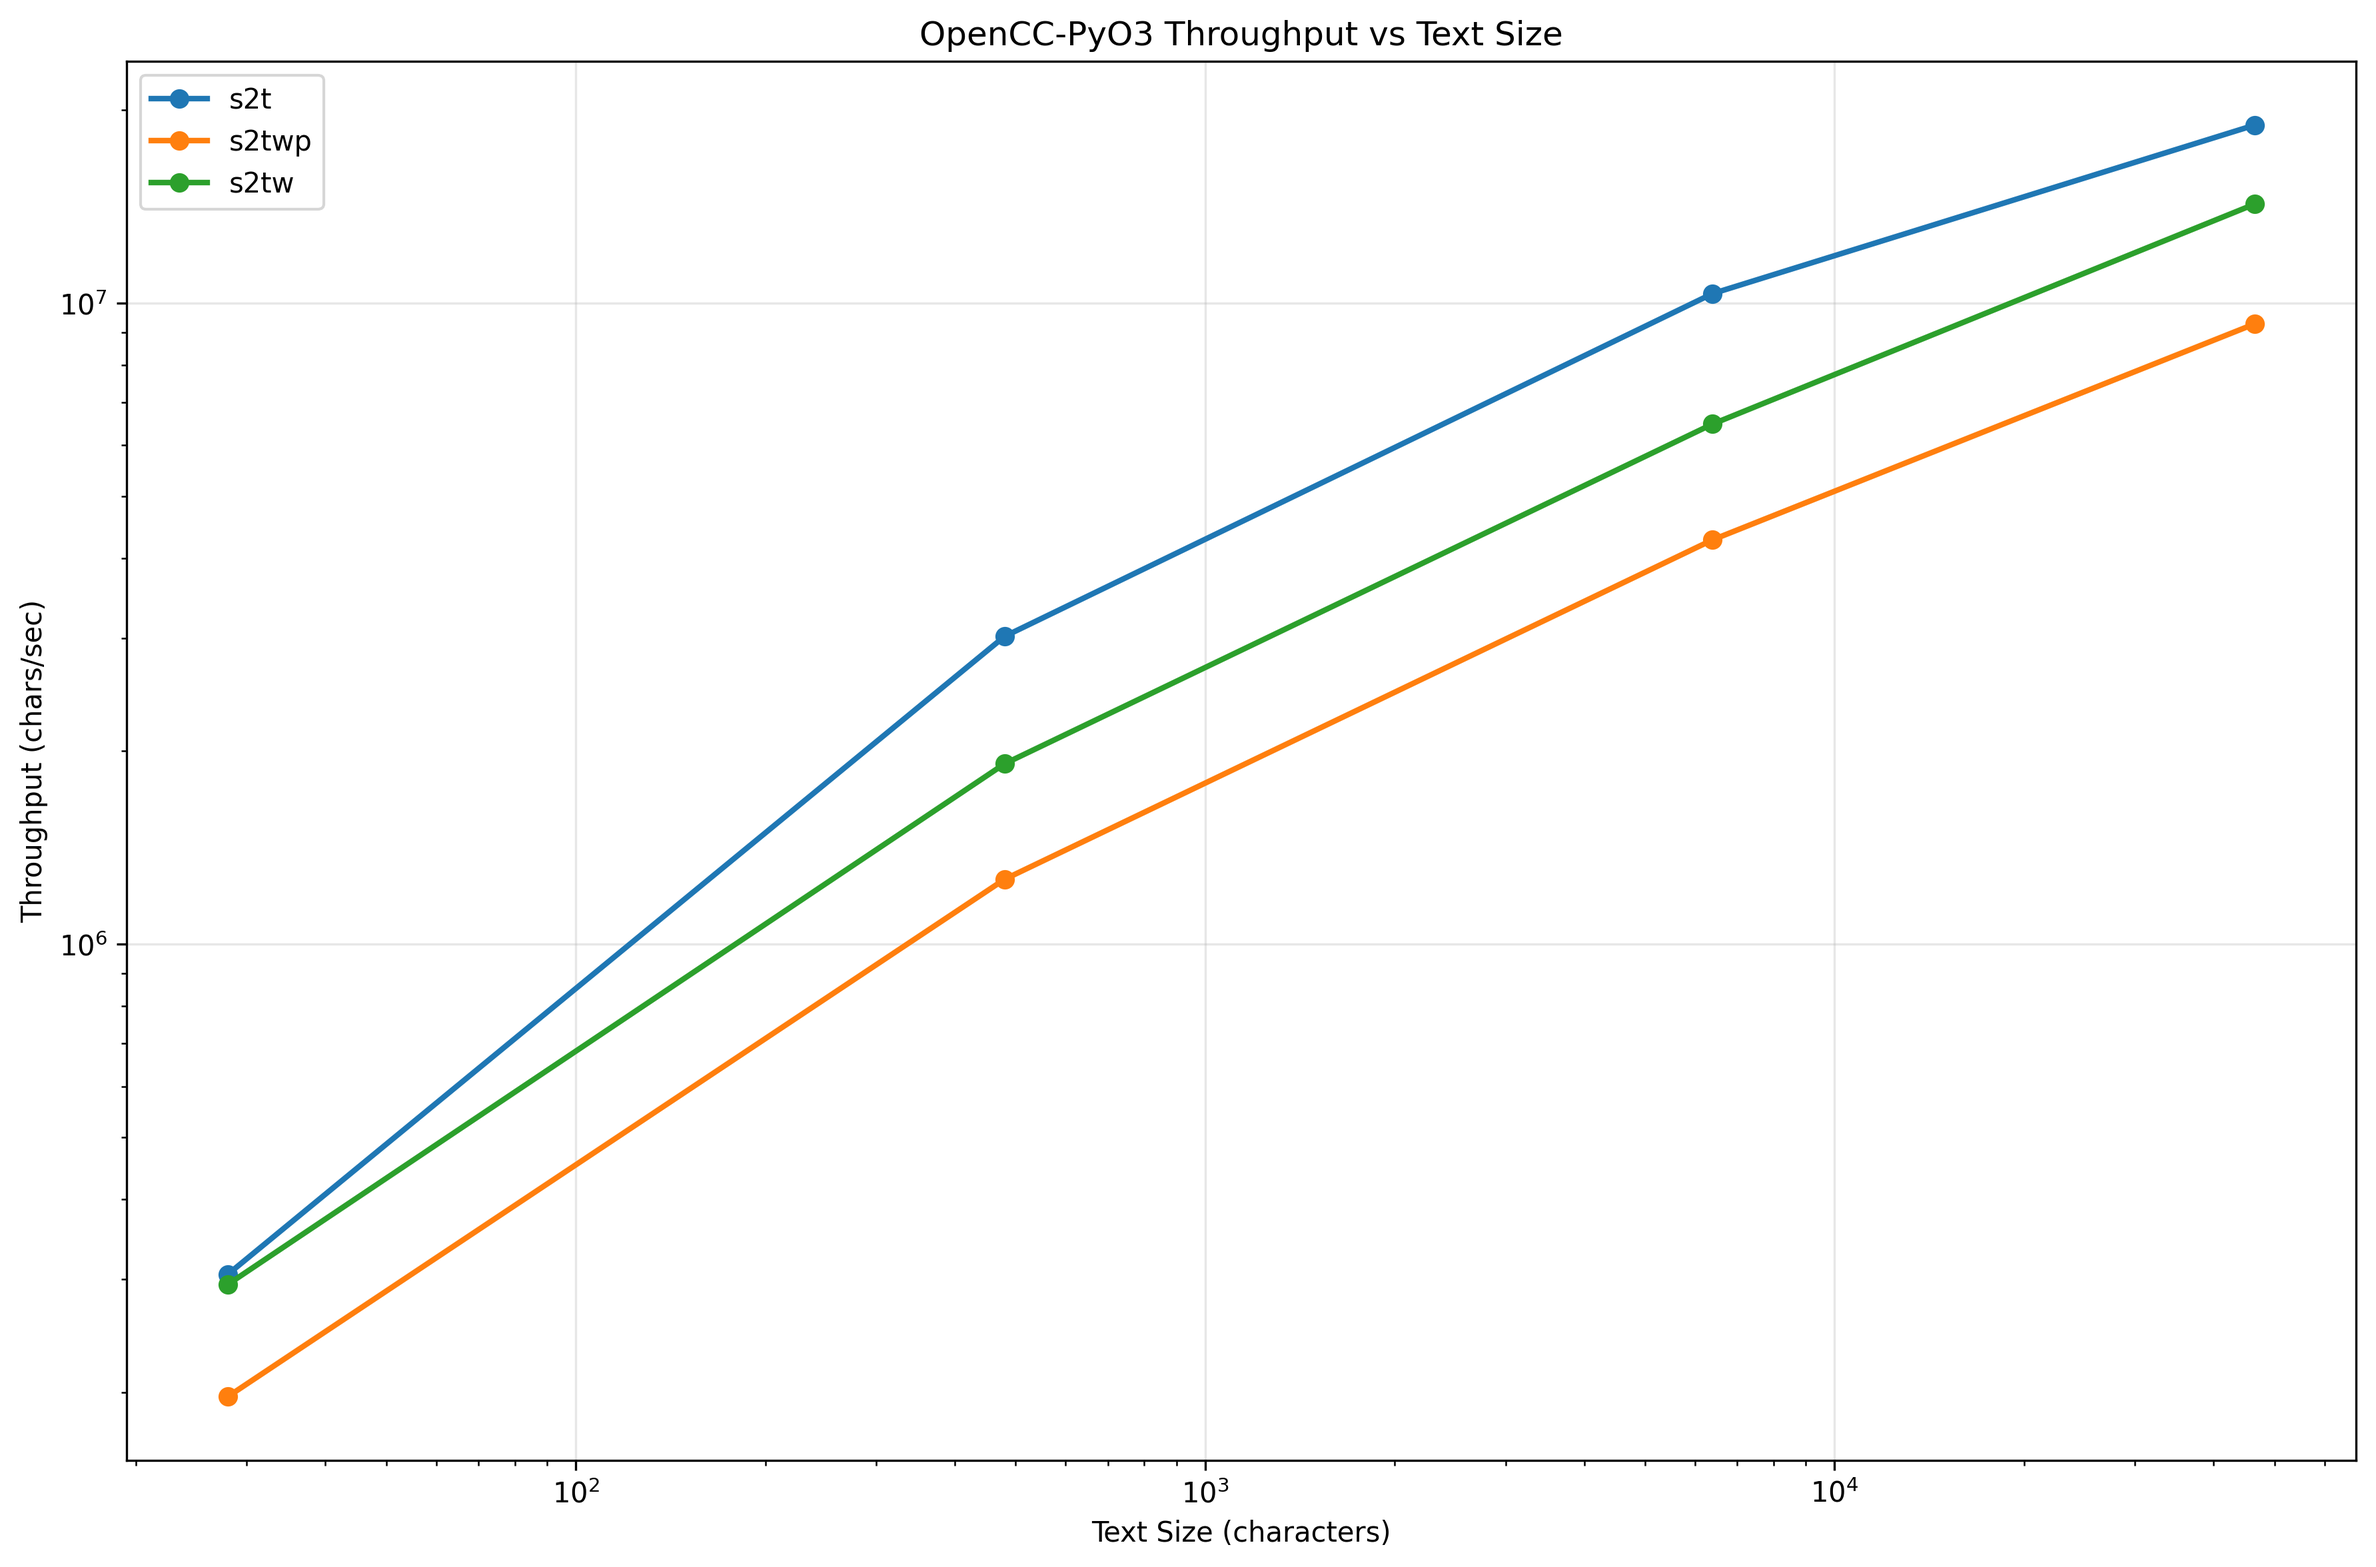
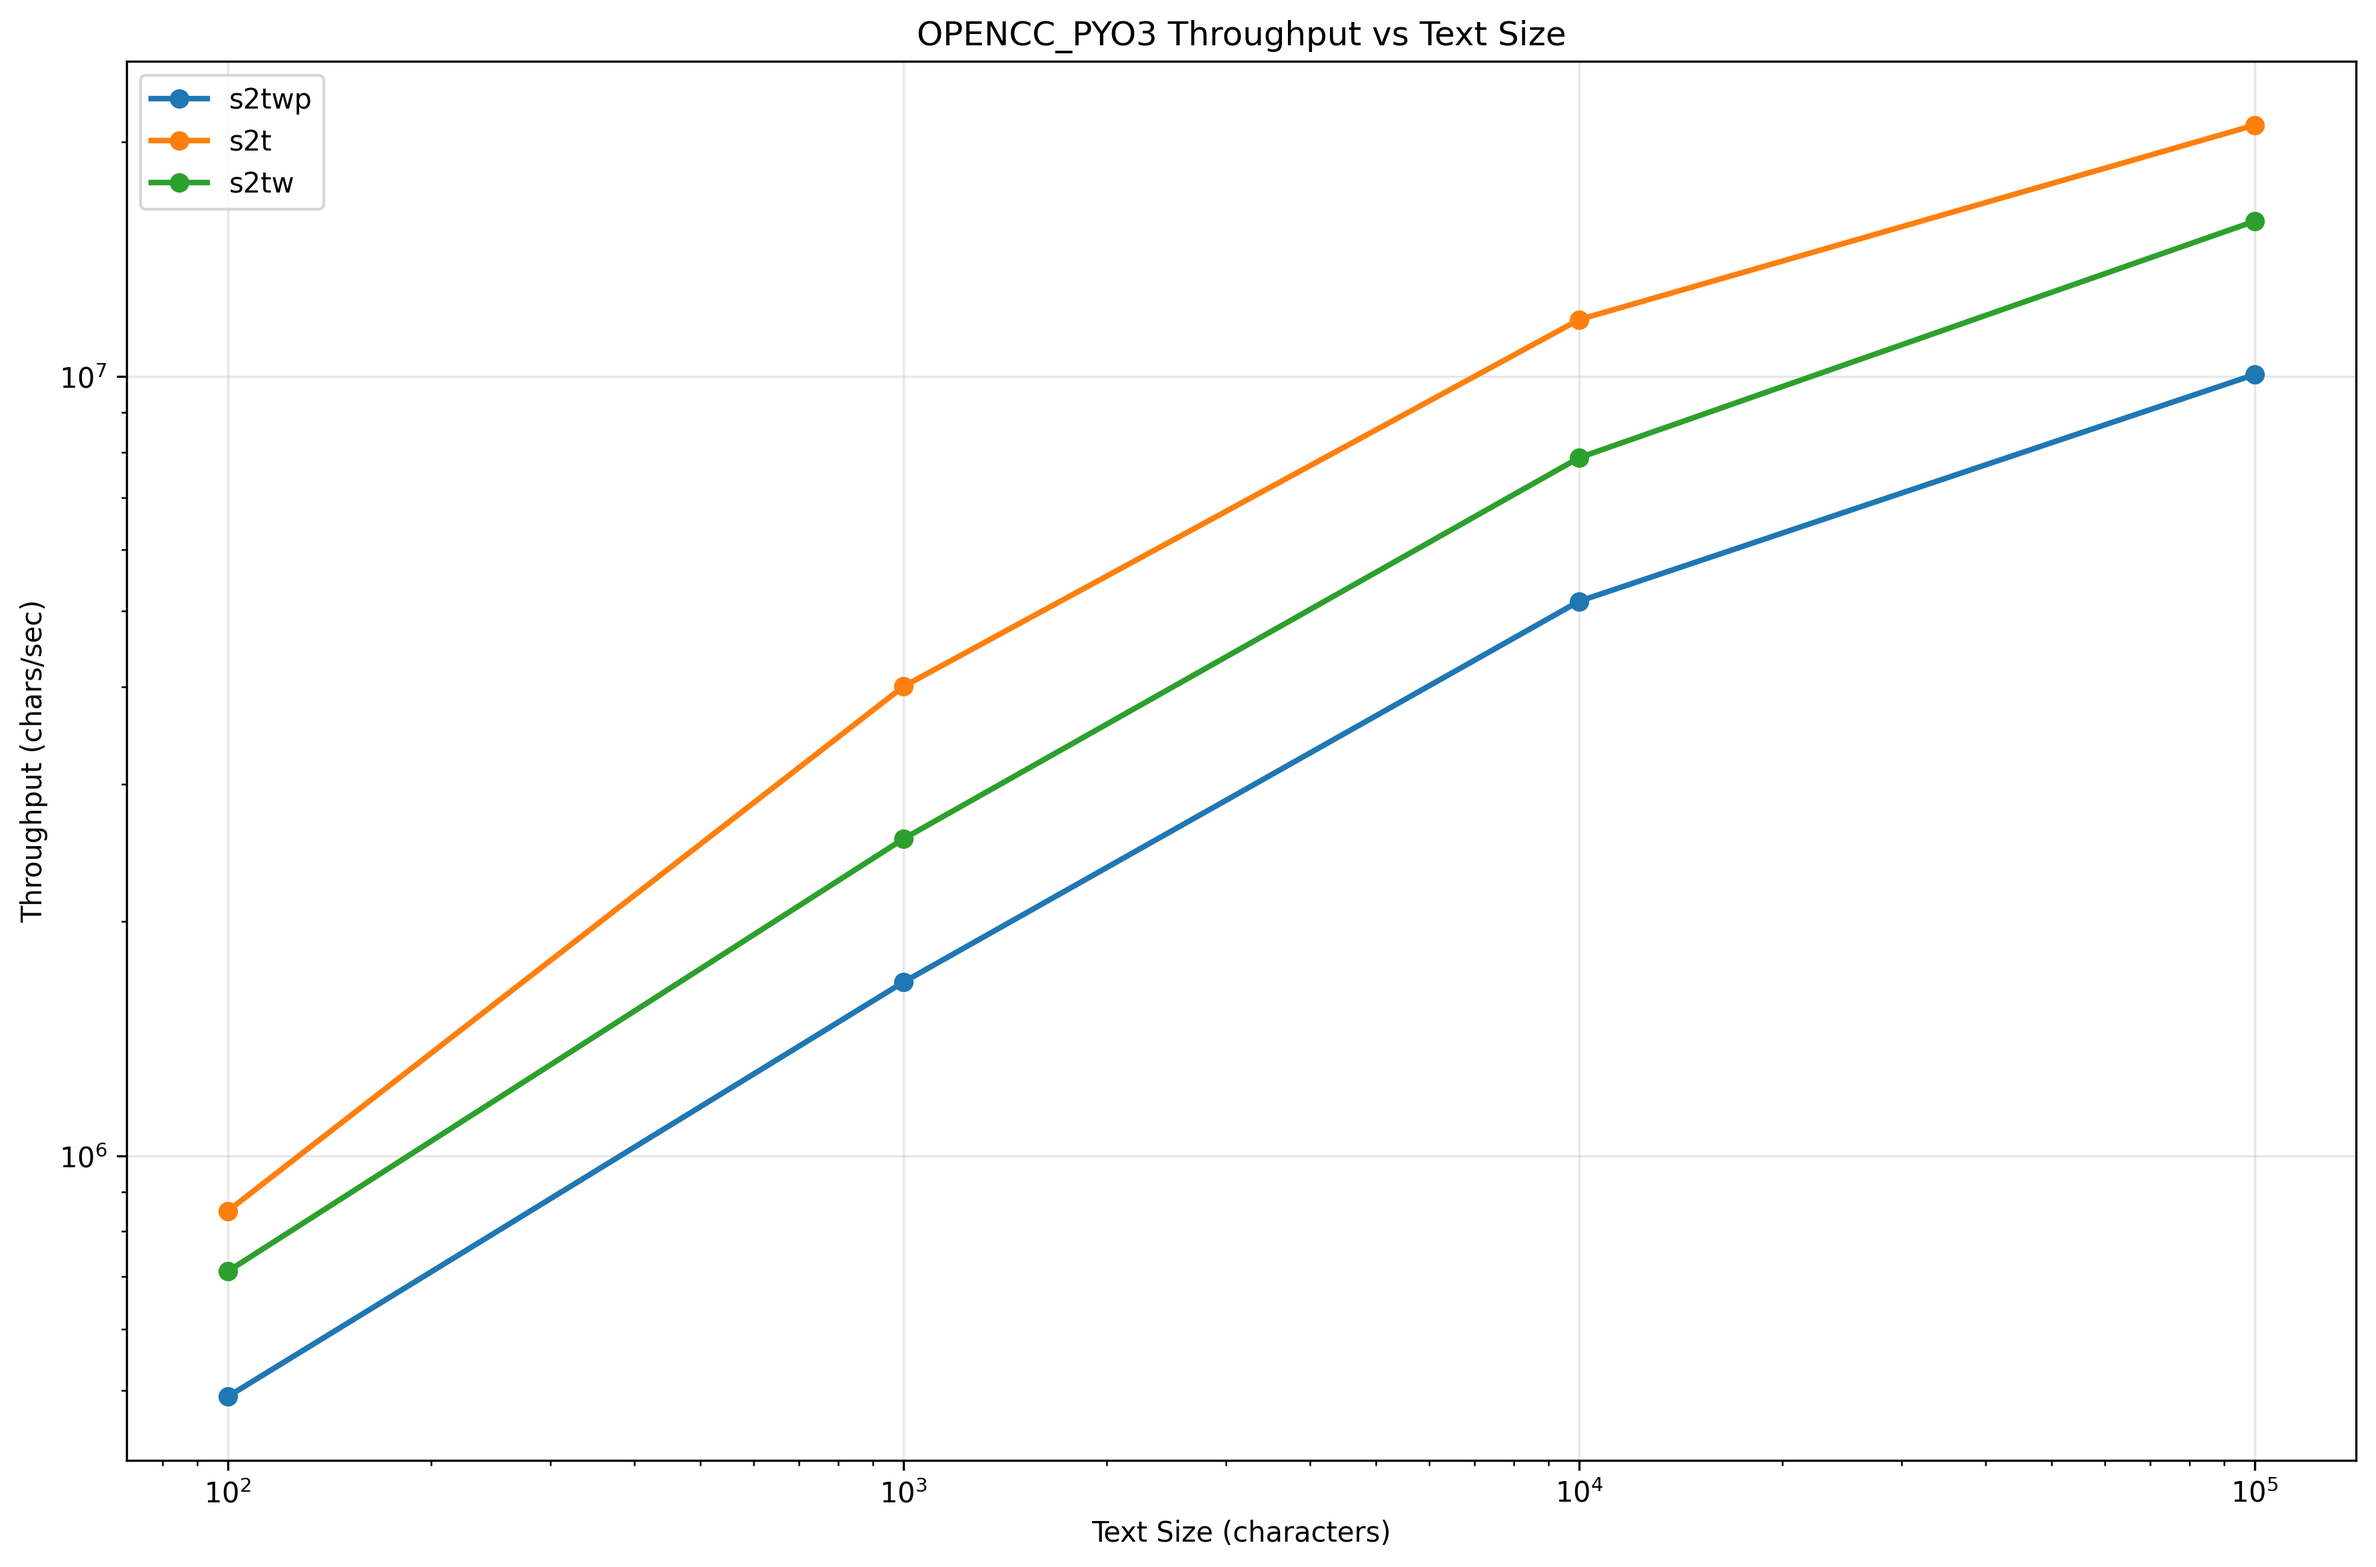
Release v0.6.2

diff --git a/README.md b/README.md
@@ -85,20 +85,25 @@ Processor: Intel64 Family 6 Model 191 Stepping 2, GenuineIntel
 
 ### BENCHMARK RESULTS
 
-| Method            | Config  | TextSize |     Mean |   StdDev |      Min |      Max |  Ops/sec | Chars/sec |
-|:------------------|:--------|---------:|---------:|---------:|---------:|---------:|---------:|----------:|
-| Convert_Small     | s2t     |       28 | 0.120 ms | 0.100 ms | 0.031 ms | 0.761 ms |     8351 |    233817 |
-| Convert_Medium    | s2t     |      480 | 0.141 ms | 0.039 ms | 0.106 ms | 0.385 ms |     7089 |   3402675 |
-| Convert_Large     | s2t     |     6400 | 0.629 ms | 0.046 ms | 0.581 ms | 1.106 ms |     1589 |  10169747 |
-| Convert_XLarge    | s2t     |    46500 | 2.401 ms | 0.098 ms | 2.286 ms | 3.218 ms |      416 |  19366459 |
-| Convert_Small     | s2tw    |       28 | 0.093 ms | 0.020 ms | 0.056 ms | 0.195 ms |    10722 |    300210 |
-| Convert_Medium    | s2tw    |      480 | 0.260 ms | 0.028 ms | 0.223 ms | 0.436 ms |     3842 |   1844249 |
-| Convert_Large     | s2tw    |     6400 | 0.962 ms | 0.034 ms | 0.907 ms | 1.138 ms |     1040 |   6655685 |
-| Convert_XLarge    | s2tw    |    46500 | 3.318 ms | 0.113 ms | 3.147 ms | 3.894 ms |      301 |  14013366 |
-| Convert_Small     | s2twp   |       28 | 0.146 ms | 0.026 ms | 0.097 ms | 0.271 ms |     6850 |    191812 |
-| Convert_Medium    | s2twp   |      480 | 0.375 ms | 0.033 ms | 0.344 ms | 0.688 ms |     2670 |   1281552 |
-| Convert_Large     | s2twp   |     6400 | 1.505 ms | 0.042 ms | 1.420 ms | 1.679 ms |      664 |   4252592 |
-| Convert_XLarge    | s2twp   |    46500 | 4.974 ms | 0.087 ms | 4.824 ms | 5.494 ms |      201 |   9348373 |
+---
+
+| Method            | Config  |  TextSize |      Mean |    StdDev |       Min |       Max |   Ops/sec | Chars/sec |
+|:------------------|:--------|----------:|----------:|----------:|----------:|----------:|----------:|----------:|
+| Convert_Small     | s2t     |       100 |  0.118 ms |  0.097 ms |  0.049 ms |  0.811 ms |      8499 |    849910 |
+| Convert_Medium    | s2t     |      1000 |  0.250 ms |  0.036 ms |  0.211 ms |  0.509 ms |      4004 |   4003531 |
+| Convert_Large     | s2t     |     10000 |  0.845 ms |  0.060 ms |  0.775 ms |  1.420 ms |      1184 |  11835419 |
+| Convert_XLarge    | s2t     |    100000 |  4.755 ms |  0.152 ms |  4.515 ms |  5.680 ms |       210 |  21030543 |
+| Convert_Small     | s2tw    |       100 |  0.141 ms |  0.027 ms |  0.096 ms |  0.321 ms |      7111 |    711093 |
+| Convert_Medium    | s2tw    |      1000 |  0.392 ms |  0.030 ms |  0.355 ms |  0.623 ms |      2552 |   2552127 |
+| Convert_Large     | s2tw    |     10000 |  1.271 ms |  0.044 ms |  1.191 ms |  1.474 ms |       787 |   7869452 |
+| Convert_XLarge    | s2tw    |    100000 |  6.317 ms |  0.139 ms |  6.004 ms |  7.250 ms |       158 |  15831322 |
+| Convert_Small     | s2twp   |       100 |  0.204 ms |  0.028 ms |  0.132 ms |  0.380 ms |      4911 |    491118 |
+| Convert_Medium    | s2twp   |      1000 |  0.598 ms |  0.039 ms |  0.527 ms |  0.747 ms |      1671 |   1671296 |
+| Convert_Large     | s2twp   |     10000 |  1.942 ms |  0.061 ms |  1.823 ms |  2.223 ms |       515 |   5149357 |
+| Convert_XLarge    | s2twp   |    100000 |  9.937 ms |  0.173 ms |  9.542 ms | 10.707 ms |       101 |  10063174 |
+
+---
+
 
 ### Throughput vs Size
 
